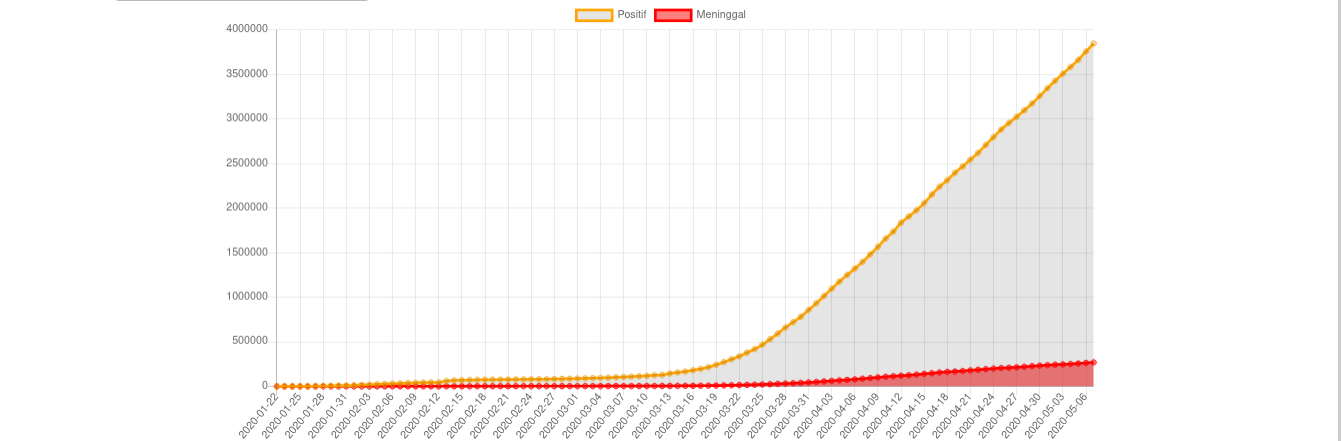
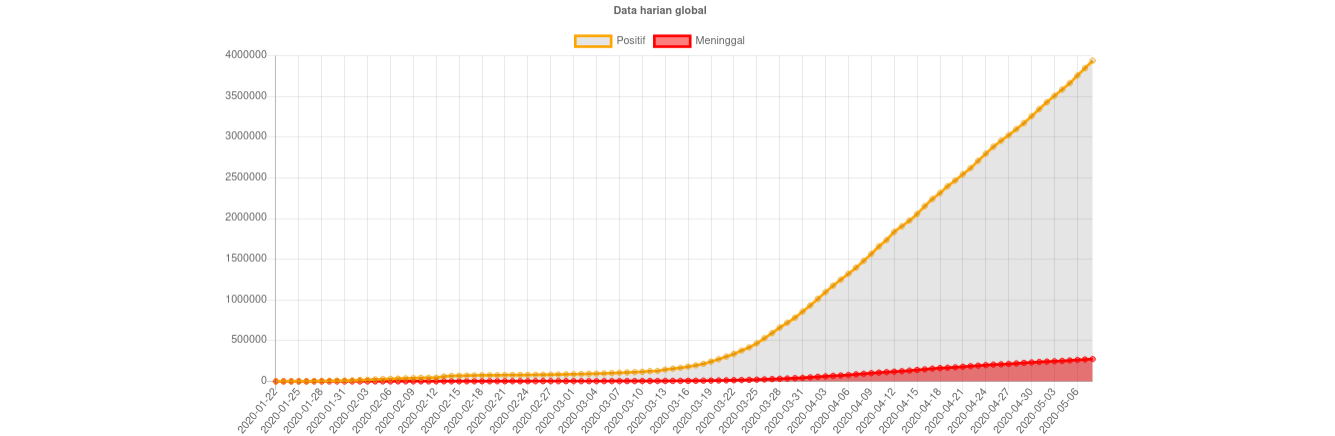
reupdating fetchFirstCountry, picture on readme.md and now global country data are now display in one web

diff --git a/src/App.js b/src/App.js
@@ -1,7 +1,7 @@
 import React from 'react'
 import { Cards, CountryPicker, Chart } from './components'
 import styles from './App.module.css'
-import { fetchData } from './api'
+import { fetchData, fetchFirstCountry } from './api'
 
 class App extends React.Component {
     state = {
@@ -19,6 +19,9 @@ class App extends React.Component {
         this.setState({ data: fetchedData })
 
         //Will display the first country when its deploy
+        const firstCountry = await fetchFirstCountry();
+        const fetchedFirstCountry = await fetchData(firstCountry)
+        this.setState({ dataCountry: fetchedFirstCountry, country: firstCountry })
     }
 
     handleCountryChange = async (country) => {

diff --git a/src/components/Chart/Chart.jsx b/src/components/Chart/Chart.jsx
@@ -16,7 +16,7 @@ const Chart = ({ data: { confirmed, recovered, deaths }, country }) => {
     };
 
     fetchMyAPI();
-  }, []);
+  }, [setDailyData]);
 
   const barChart = confirmed ? (
     <Bar
@@ -57,11 +57,17 @@ const Chart = ({ data: { confirmed, recovered, deaths }, country }) => {
           },
         ],
       }}
+      options={{
+        title: { display: true, text: `Data harian global` },
+      }}
     />
   ) : null;
 
   return (
-    <div className={styles.container}>{country ? barChart : lineChart}</div>
+    <div className={styles.container}>
+      <center>{barChart}</center>
+      <center>{lineChart}</center>
+    </div>
   );
 };
 

diff --git a/src/components/CountryPicker/CountryPicker.jsx b/src/components/CountryPicker/CountryPicker.jsx
@@ -17,7 +17,9 @@ const CountryPicker = ({ handleCountryChange }) => {
       <form>
         <h5 style={{ display: "inline" }}>Pilih Negara: </h5>
         <select onChange={(e) => handleCountryChange(e.target.value)}>
-          <option value="">Global</option>
+          <option value="" disabled>
+            Select Country
+          </option>
           {fetchedCountries.map((country, i) => (
             <option key={i} value={country}>
               {country}

diff --git a/src/api/index.js b/src/api/index.js
@@ -26,6 +26,15 @@ export const fetchCountries = async () => {
     }
 }
 
+export const fetchFirstCountry = async () => {
+    try {
+        const { data: { countries } } = await axios.get(`${url}/countries`)
+        return countries[0].name
+    } catch (error) {
+        console.log(error);
+
+    }
+}
 
 export const fetchDailyData = async () => {
     try {

diff --git a/README.md b/README.md
@@ -11,9 +11,5 @@ Web that track Covid 19 cases globally and per country
 Below is the main page of the web
 
 ![Example of CovidTracker main page](./covidTracker.png)
-![LineChart example](./lineChart.png)
-
-Below is the example if one country is chosen from the combo box
-
-![CovidTracker example](./comboBoxExample.png)
 ![Barchart example](./barChart.png)
+![LineChart example](./lineChart.png)
